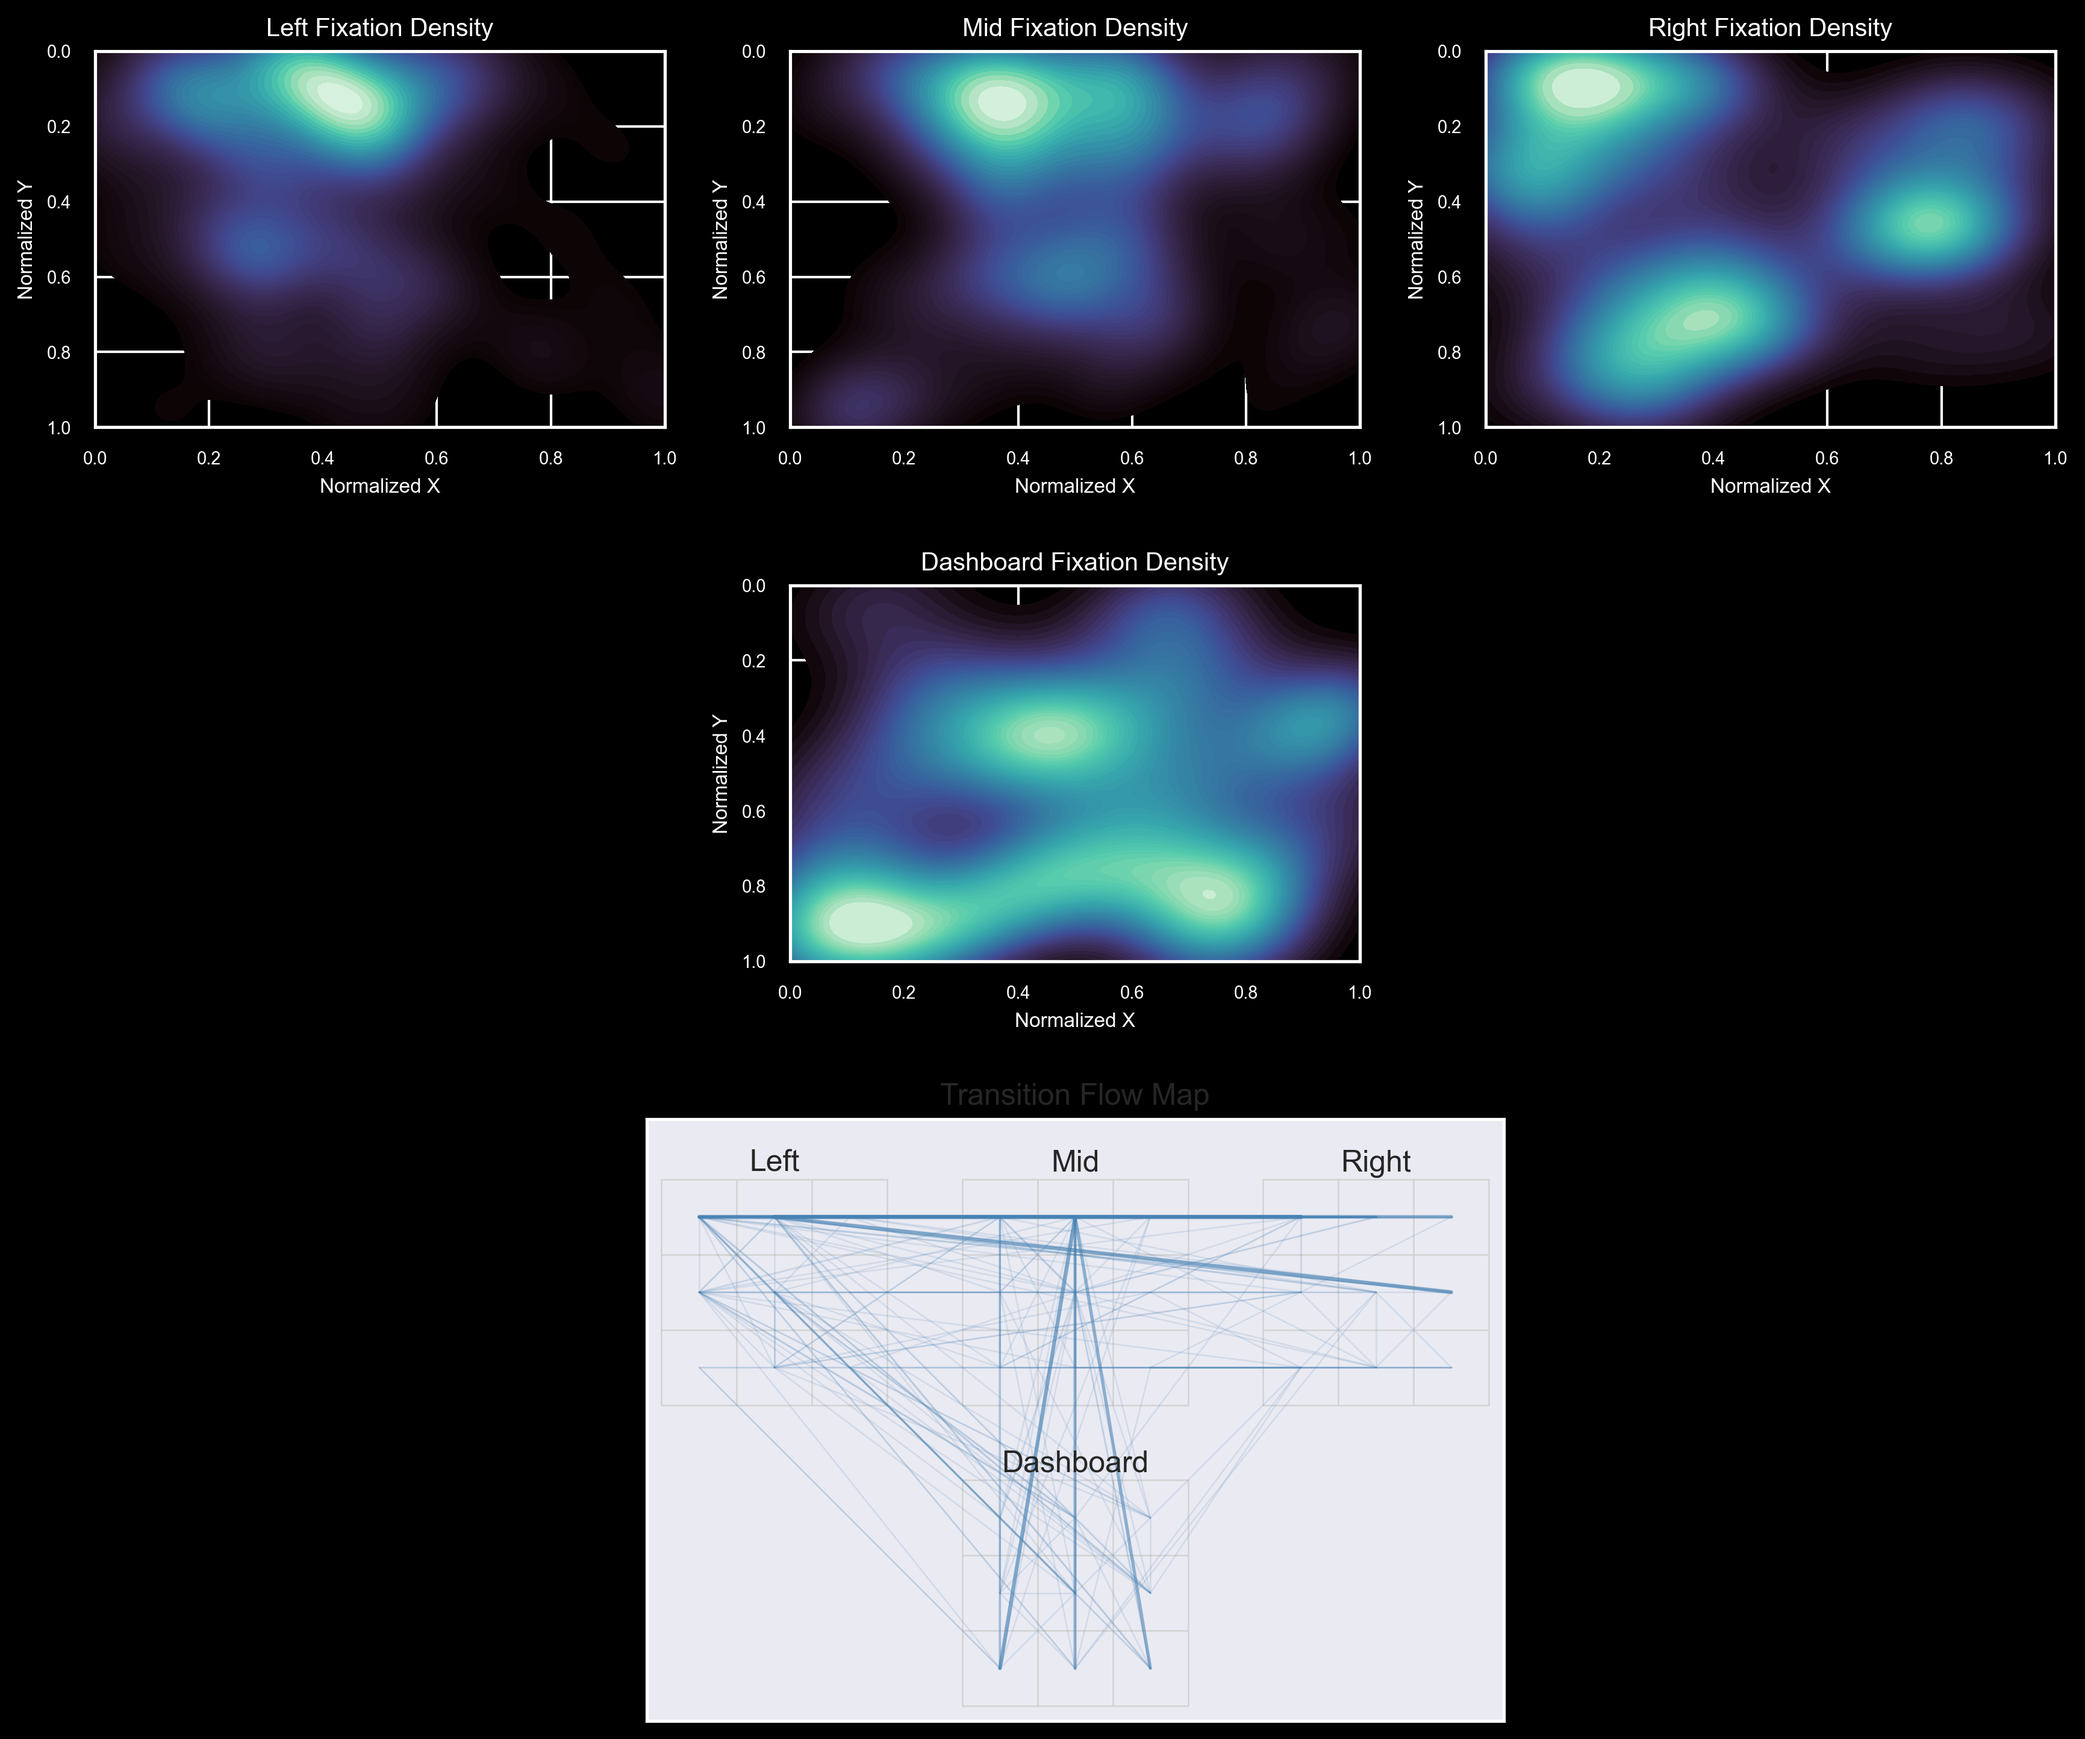
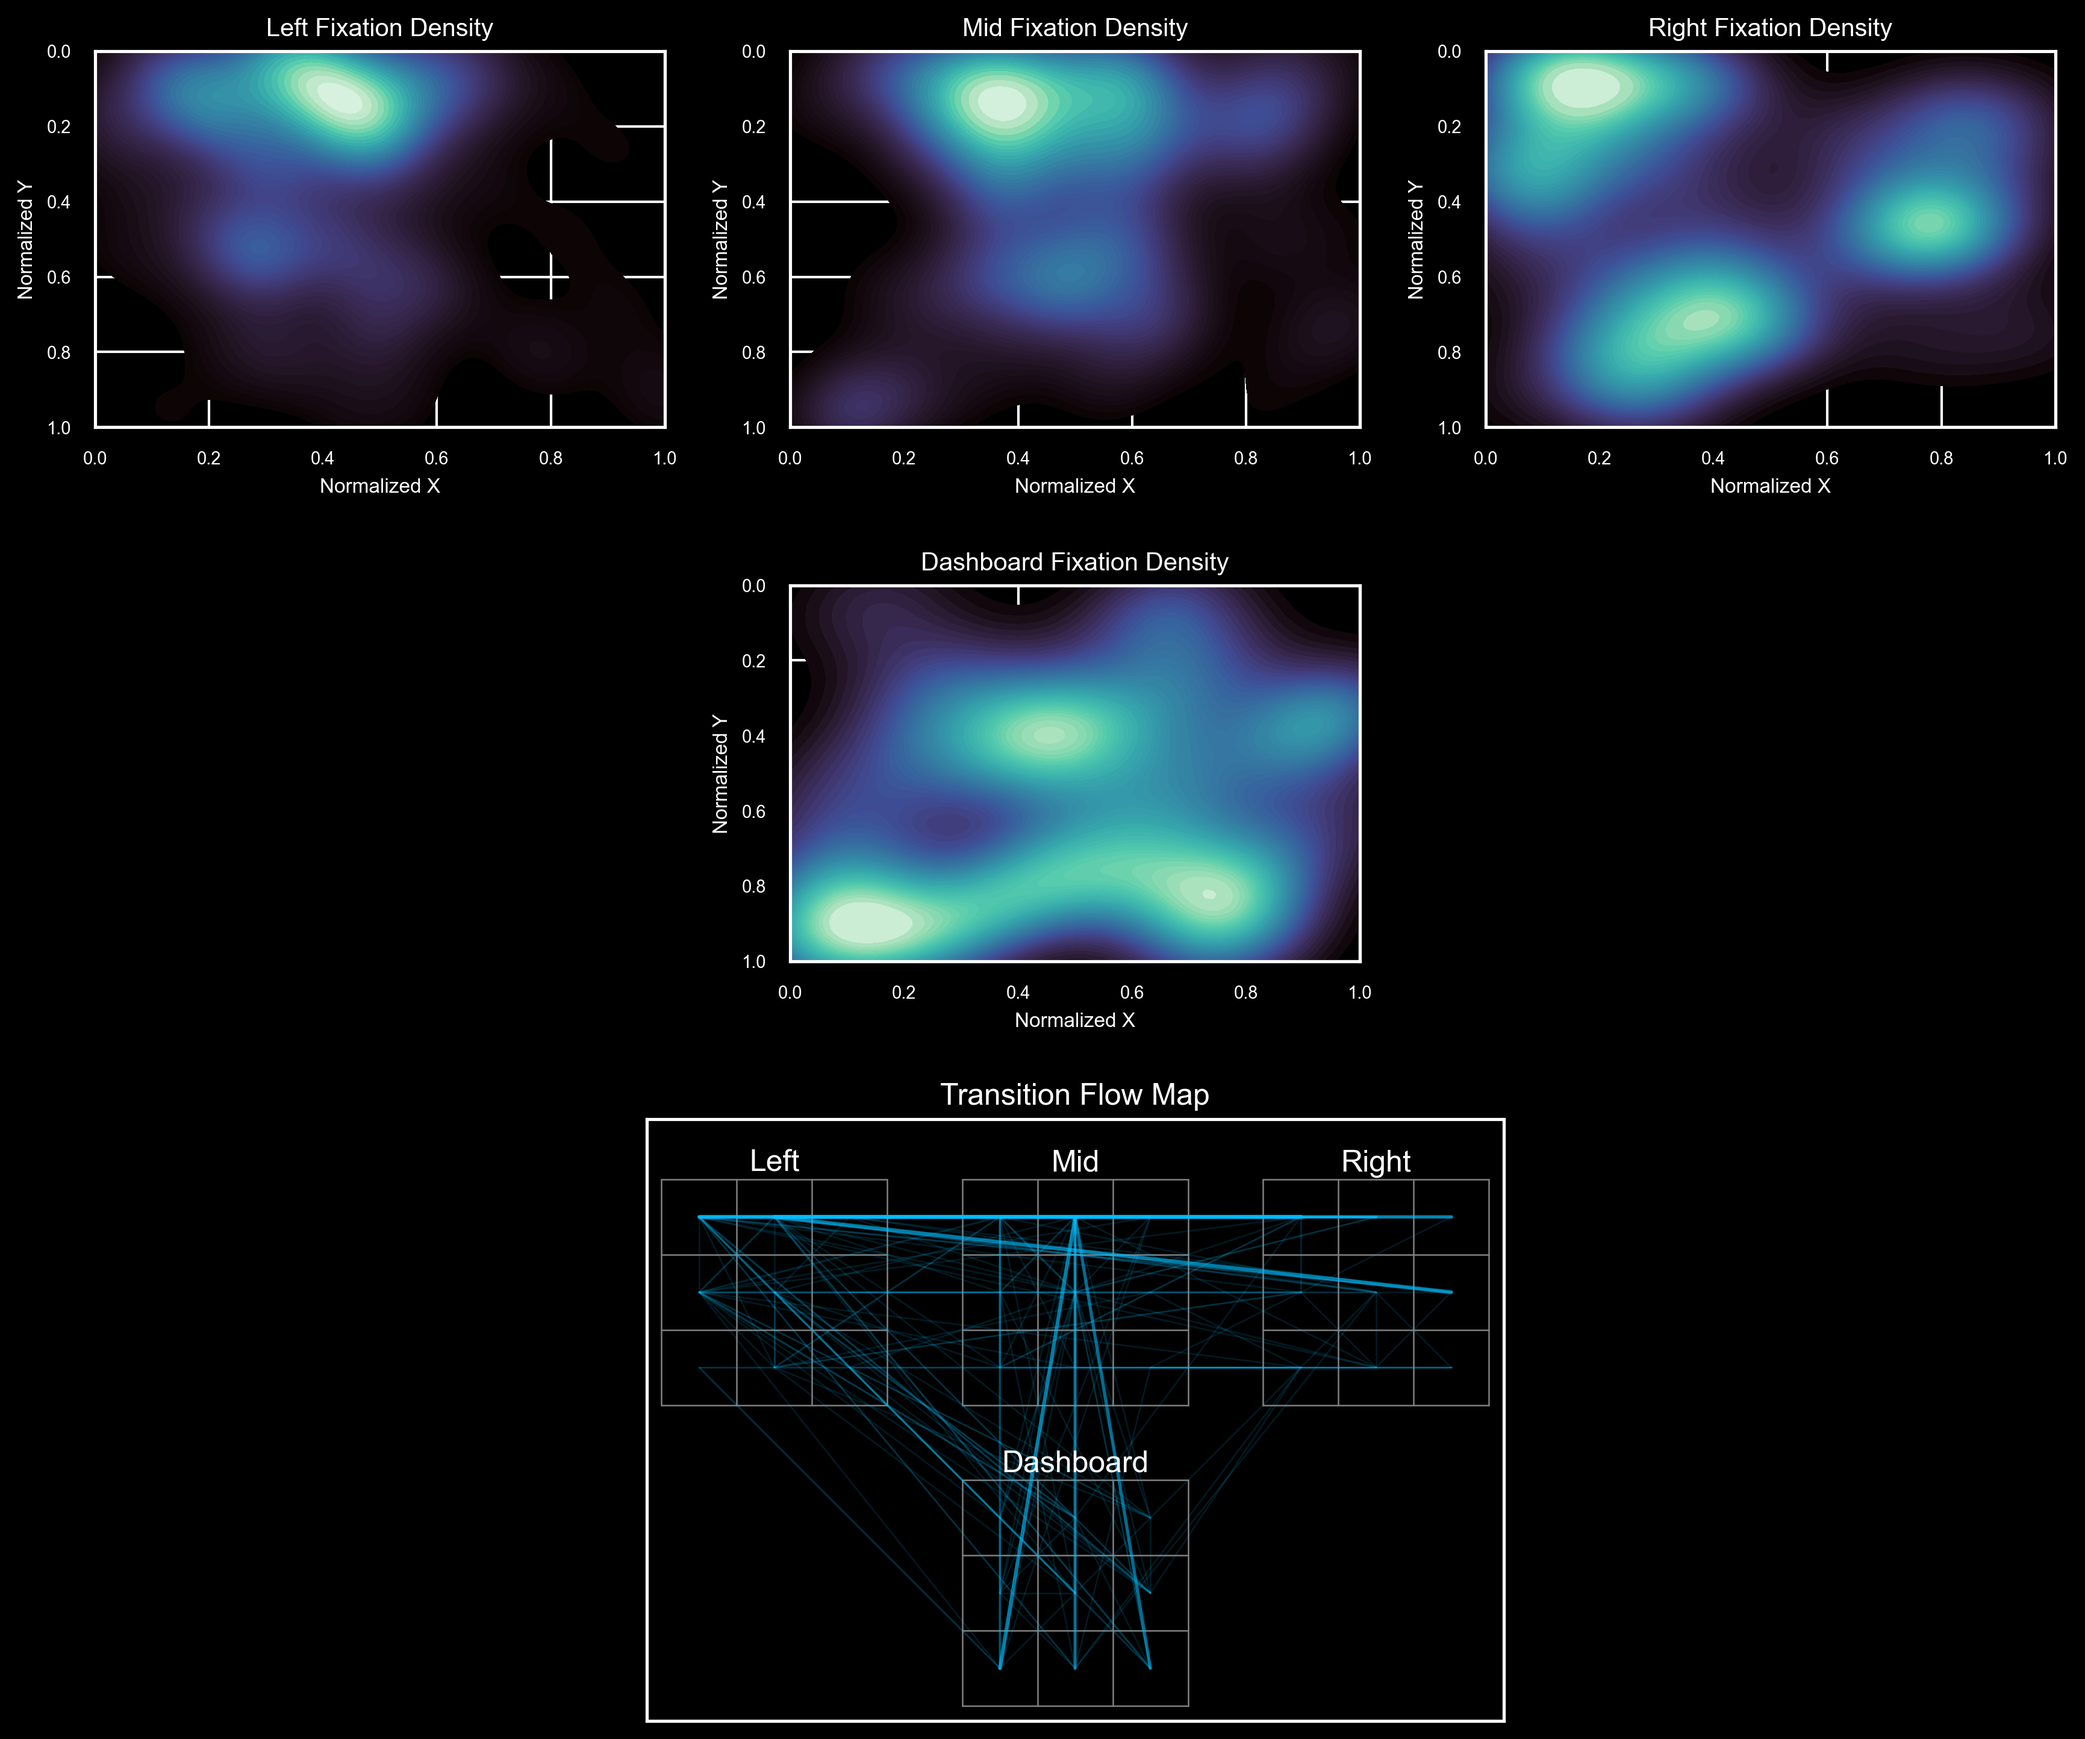
3/20

Changed region(s): [[0.312, 0.6235, 0.7487, 0.9976]]

diff --git a/transitions.py b/transitions.py
@@ -324,7 +324,8 @@ def _aoi_center(aoi_id, offsets, grid_size=3):
     return x_off + (col + 0.5), y_off + (row + 0.5)
 
 
-def _draw_transition_flow(ax, transitions, surface_order, title):
+def _draw_transition_flow(ax, transitions, surface_order, title,
+                          grid_color='lightgray', label_color='black', flow_color='steelblue'):
     """Draw transition flow map on an existing axis."""
     offsets = _surface_offsets(surface_order)
     counts = transitions.groupby(['aoi_id', 'next_aoi']).size().reset_index(name='count')
@@ -333,9 +334,9 @@ def _draw_transition_flow(ax, transitions, surface_order, title):
     grid_size = 3
     for label, (x_off, y_off) in offsets.items():
         for i in range(grid_size + 1):
-            ax.plot([x_off, x_off + grid_size], [y_off + i, y_off + i], color='lightgray', linewidth=0.6)
-            ax.plot([x_off + i, x_off + i], [y_off, y_off + grid_size], color='lightgray', linewidth=0.6)
-        ax.text(x_off + 1.5, y_off - 0.4, label, ha='center', va='top')
+            ax.plot([x_off, x_off + grid_size], [y_off + i, y_off + i], color=grid_color, linewidth=0.6)
+            ax.plot([x_off + i, x_off + i], [y_off, y_off + grid_size], color=grid_color, linewidth=0.6)
+        ax.text(x_off + 1.5, y_off - 0.4, label, ha='center', va='top', color=label_color)
 
     for _, row in counts.iterrows():
         start = _aoi_center(row['aoi_id'], offsets, grid_size=grid_size)
@@ -344,7 +345,7 @@ def _draw_transition_flow(ax, transitions, surface_order, title):
             continue
         alpha = 0.1 + 0.8 * (row['count'] / max_count)
         linewidth = 0.5 + 2.5 * (row['count'] / max_count)
-        ax.plot([start[0], end[0]], [start[1], end[1]], color='steelblue', alpha=alpha, linewidth=linewidth)
+        ax.plot([start[0], end[0]], [start[1], end[1]], color=flow_color, alpha=alpha, linewidth=linewidth)
 
     max_x = max(pos[0] for pos in offsets.values()) + grid_size + 0.2
     max_y = max(pos[1] for pos in offsets.values()) + grid_size + 0.2
@@ -446,7 +447,17 @@ def visualize_combined_density_and_flow_map(surface_data_map, transitions, outpu
         ax.tick_params(colors='white', labelsize=7)
 
     ax_flow = fig.add_subplot(grid[2, :])
-    _draw_transition_flow(ax_flow, transitions, surface_order, 'Transition Flow Map')
+    ax_flow.set_facecolor('black')
+    _draw_transition_flow(
+        ax_flow,
+        transitions,
+        surface_order,
+        'Transition Flow Map',
+        grid_color='gray',
+        label_color='white',
+        flow_color='deepskyblue'
+    )
+    ax_flow.title.set_color('white')
 
     os.makedirs(output_dir, exist_ok=True)
     fig.savefig(os.path.join(output_dir, filename), dpi=300, facecolor=fig.get_facecolor(), bbox_inches='tight')

diff --git a/eyetracking_integrated.py b/eyetracking_integrated.py
@@ -1,5 +1,3 @@
-"""Eye-Tracking Analysis: Multi-Surface AOIs + Continuous Scan Patterns."""
-
 import os
 import warnings
 
@@ -15,18 +13,17 @@ warnings.filterwarnings('ignore')
 
 def main():
     """Run per-participant analyses, participant metrics, and group aggregation."""
-    print("=" * 60)
+    print("-" * 60)
     print("EYE-TRACKING ANALYSIS: AOIs + SCAN PATTERNS")
-    print("=" * 60)
-
+    print("-" * 60)
     script_dir = os.path.dirname(os.path.abspath(__file__))
 
     summary_rows = []
 
     for run_id in RUN_IDS:
-        print("\n" + "=" * 60)
-        print(f"PROCESSING RUN: {run_id}")
-        print("=" * 60)
+        print("\n" + "-" * 60)
+        print(f"Currently processing RUN: {run_id}")
+        print("-" * 60)
 
         data_root = os.path.join(DATA_BASE, run_id, "exports", run_id)
         surfaces_dir = os.path.join(data_root, "surfaces")

diff --git a/aoi_analysis.py b/aoi_analysis.py
@@ -119,9 +119,9 @@ def create_aoi_data(surface_data, include_off_surf=False):
         )
     else:
         data['aoi'] = data.apply(lambda row: assign_aoi(row['norm_pos_x'], row['norm_pos_y']), axis=1)
-    print("=" * 60)
+    print("-" * 60)
     print("STEP 3: AOI Assignment (3x3 Grid)")
-    print("=" * 60)
+    print("-" * 60)
     print(f"Assigned {len(data)} fixations to AOIs")
     print("AOI assignments:")
     print(data[['fixationid', 'norm_pos_x', 'norm_pos_y', 'aoi']].head(10))
